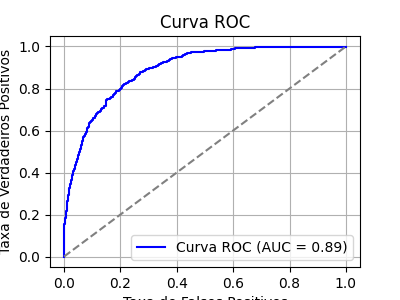
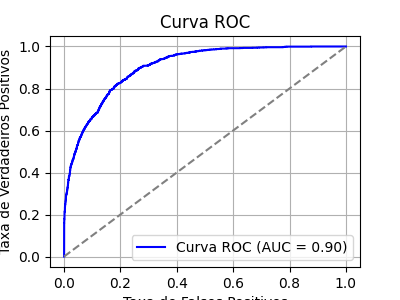
ajustes divisao dos dados

Changed region(s): [[0.15, 0.15, 0.6, 0.78], [0.63, 0.15, 0.87, 0.18], [0.81, 0.81, 0.87, 0.84]]

diff --git a/models/target_model_tuning.py b/models/target_model_tuning.py
@@ -4,7 +4,7 @@ import matplotlib.pyplot as plt
 from models.cnn_model_tuning import run_random_search
 from models.cnn_model import plot_training_history, PrintDot, evaluate_model
 
-# Diretório para salvar os gráficos de métricas
+
 metrics_dir = "results/metrics"
 if not os.path.exists(metrics_dir):
     os.makedirs(metrics_dir)
@@ -22,9 +22,9 @@ def tune_target_model(X_train, y_train, X_val, y_val, X_test, y_test):
     :return: Melhor modelo, histórico de treinamento e melhores parâmetros
     """
     # Expandindo as dimensões para a CNN 1D
-    X_train = np.expand_dims(X_train, axis=2)  # Certifique-se de que esta linha está presente
-    X_val = np.expand_dims(X_val, axis=2)      # Certifique-se de que esta linha está presente
-    X_test = np.expand_dims(X_test, axis=2)    # Considere adicionar isso se ainda não estiver
+    X_train = np.expand_dims(X_train, axis=2)  
+    X_val = np.expand_dims(X_val, axis=2)     
+    X_test = np.expand_dims(X_test, axis=2)    
 
     # Executa a busca de hiperparâmetros
     best_model, best_params = run_random_search(X_train, y_train, X_val, y_val)

diff --git a/main.py b/main.py
@@ -7,7 +7,7 @@ def main():
     data_path = "data/adult_clean .csv"
     target_column = "income"
 
-    # Executa o pré-processamento2
+    # Executa o pré-processamento
     X_train, X_val, X_test, y_train, y_val, y_test, shadow_dataset = preprocess_data(
         file_path=data_path, 
         target_col=target_column,
@@ -46,7 +46,7 @@ def main():
         else:
             print("Opção inválida. Por favor, selecione uma opção válida.")
 
-    # Salvando os modelos treinados após a seleção
+    # Salvando os pesos dos modelos treinados após a seleção
     target_model.save("results/output/target_model.h5")
     for idx, model in enumerate(shadow_models):
         model.save(f"results/output/shadow_model_{idx}.h5")

diff --git a/models/cnn_model_tuning.py b/models/cnn_model_tuning.py
@@ -19,7 +19,7 @@ def build_cnn_1d_model_tuner(hp):
                      activation='relu'))
     model.add(MaxPooling1D(pool_size=hp.Choice('pool_size2', values=[2, 3])))
 
-    # Use GlobalAveragePooling1D para evitar problemas de dimensão
+    # GlobalAveragePooling1D para evitar problemas de dimensão
     model.add(GlobalAveragePooling1D())
     
     model.add(Dense(units=hp.Int('dense_units', min_value=32, max_value=128, step=32), activation='relu'))

diff --git a/preprocess/preprocessing.py b/preprocess/preprocessing.py
@@ -44,7 +44,7 @@ def split_dataset(df, target_col):
     O modelo alvo recebe 15.000 amostras e o shadow recebe o restante.
     """
     df.dropna(inplace=True)
-    target_dataset = df.sample(n=15000, replace=False)
+    target_dataset = df.sample(n=30000, replace=False)
     shadow_dataset = df.drop(target_dataset.index)
 
     return target_dataset, shadow_dataset
